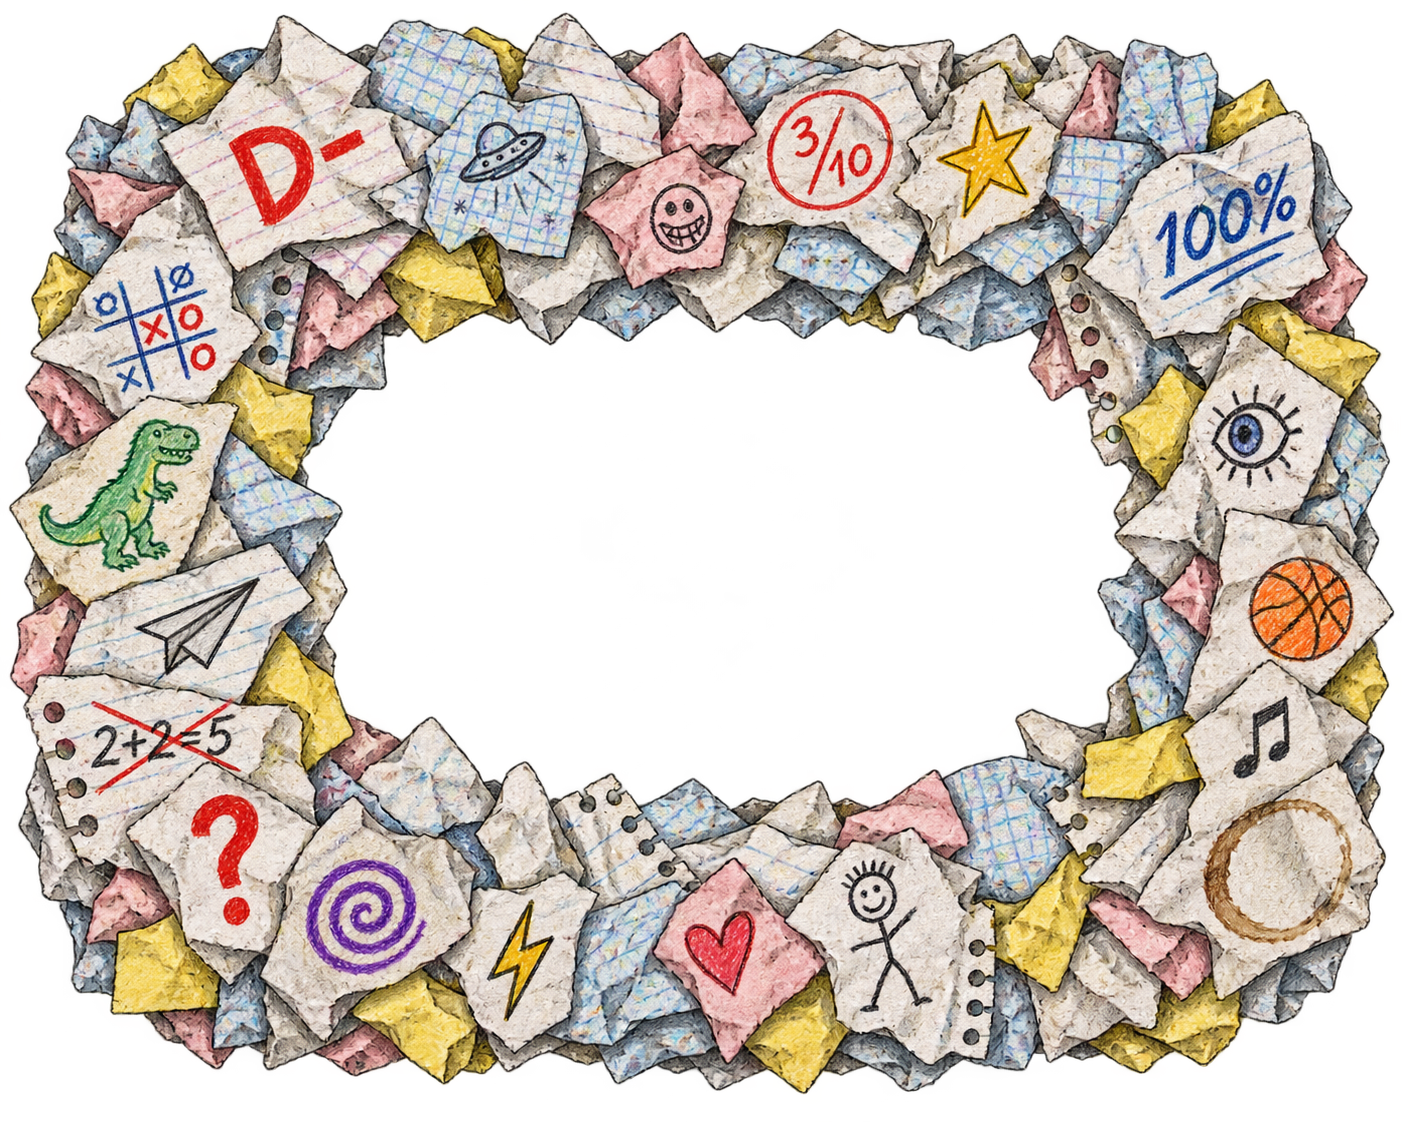
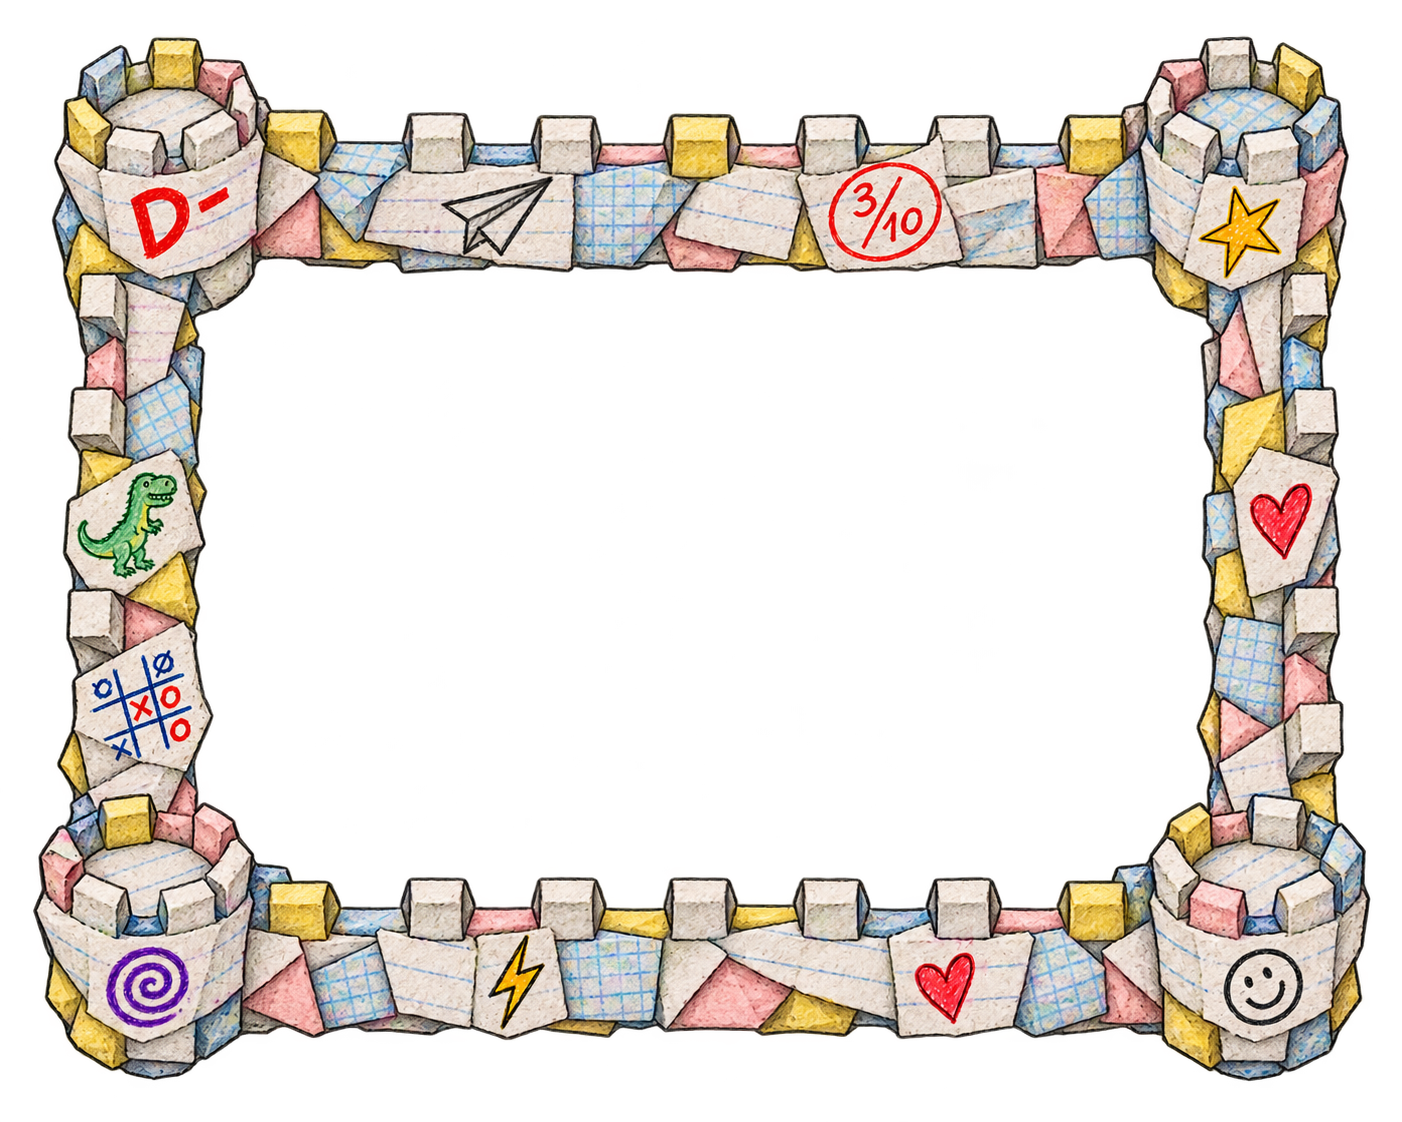
Redraw Stevie's barrier as a thinner folded-paper fort

diff --git a/index.html b/index.html
@@ -274,6 +274,7 @@
     <p>Recent updates, newest first. Your run pauses while this screen is open.</p>
     <!-- CHANGELOG: prepend a new article for each future player-facing update. Keep older entries. -->
     <div id="changelogEntries" class="build-upgrades">
+      <article class="build-entry"><h3>A proper paper fort</h3><p>Stevie’s barrier now has thinner folded-paper walls, reinforced corner towers and little battlements. Notebook doodles and colorful scraps keep it homemade, with more open space around Stevie.</p></article>
       <article class="build-entry"><h3>A legendary third stroke and a visible fort</h3><p>Triple Stroke is now a Legendary-only one-time unlock, including in DEV MODE, and can appear in reserved Legendary rewards. Common, Uncommon and Rare offers cannot include it. Stevie’s chaotic paper fort is larger and centered around him so its scraps and doodles are visible; its rounded contact boundary grows with the artwork.</p></article>
       <article class="build-entry"><h3>The notebook makes some noise</h3><p>Drawing uses five varied pencil scribbles, finished walls get a pencil tap, rocks alternate impact sounds, and wall hits, lightning and defeated monsters have their own effects. Sounds have short cooldowns, limited overlap and a shared mixer to keep busy waves clear. Effects stop during pauses and menus; Options now controls their live volume separately from music.</p></article>
       <article class="build-entry"><h3>A smaller, messier paper fort</h3><p>Stevie’s paper barricade is now half as wide and tall, with one complete illustration instead of repeated balls. The naturally rounded pile mixes lined, graph and colored scraps, bad grades, good scores, doodles and little jokes. It sits around his feet so he stays visible, and its contact boundary now follows rounded corners.</p></article>

diff --git a/README.md b/README.md
@@ -747,8 +747,8 @@ The refuge now uses one complete transparent illustration,
 `assets/art/paper-fort.png`, instead of repeated ball sprites. Its outer footprint
 is 112×104px, with 18px rounded collision
 corners, centered 4px below Stevie so his full-size portrait stays visible.
-The irregular art mixes lined/grid paper, colored scraps, grades and playful
-doodles. Contact uses nearest-point distance to the rounded rectangle; no
+The thin folded-paper walls have corner towers and battlements, with lined/grid
+paper, colored scraps, grades and playful doodles. Contact uses nearest-point distance to the rounded rectangle; no
 extra health or changes to armor, cover, projectile hitboxes or rewards.
 
 Sound effects use the eleven user-supplied recordings converted to 32 kHz mono
